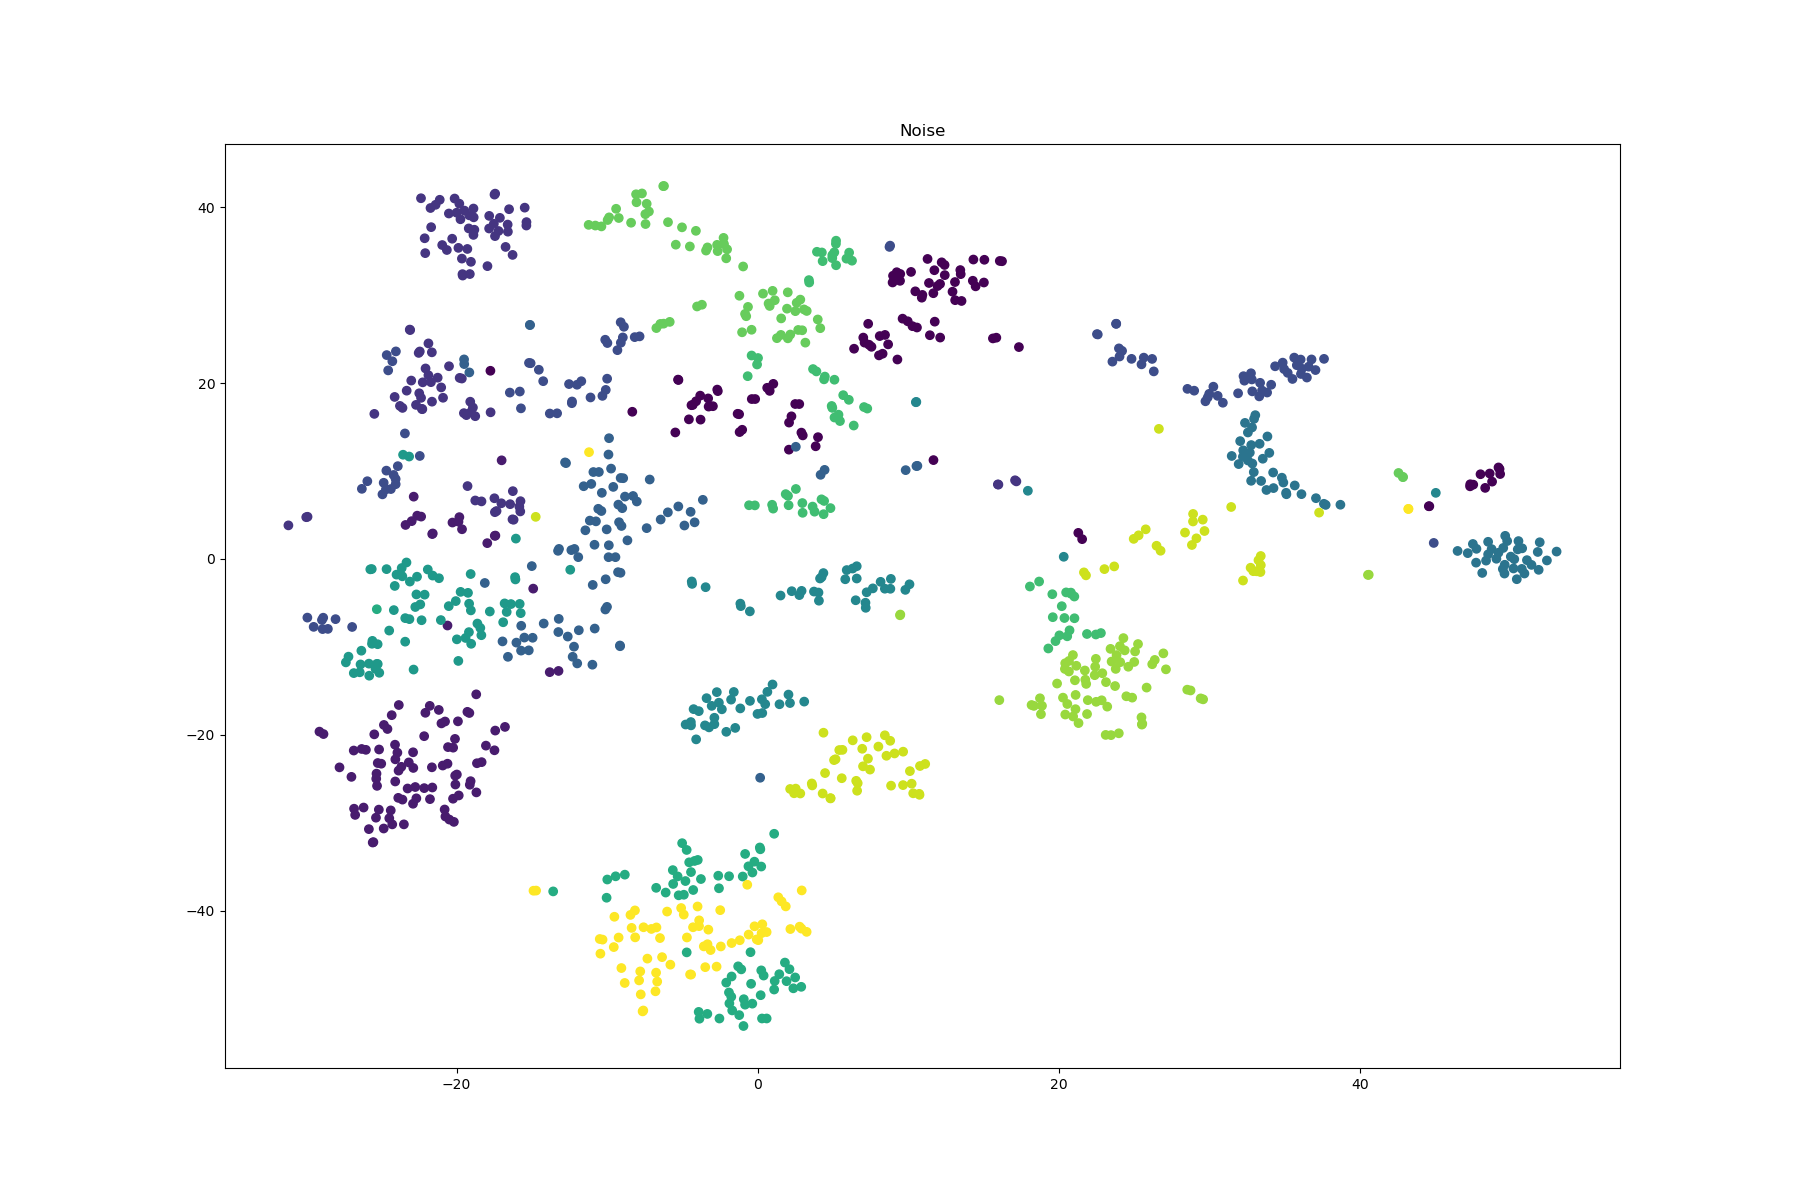
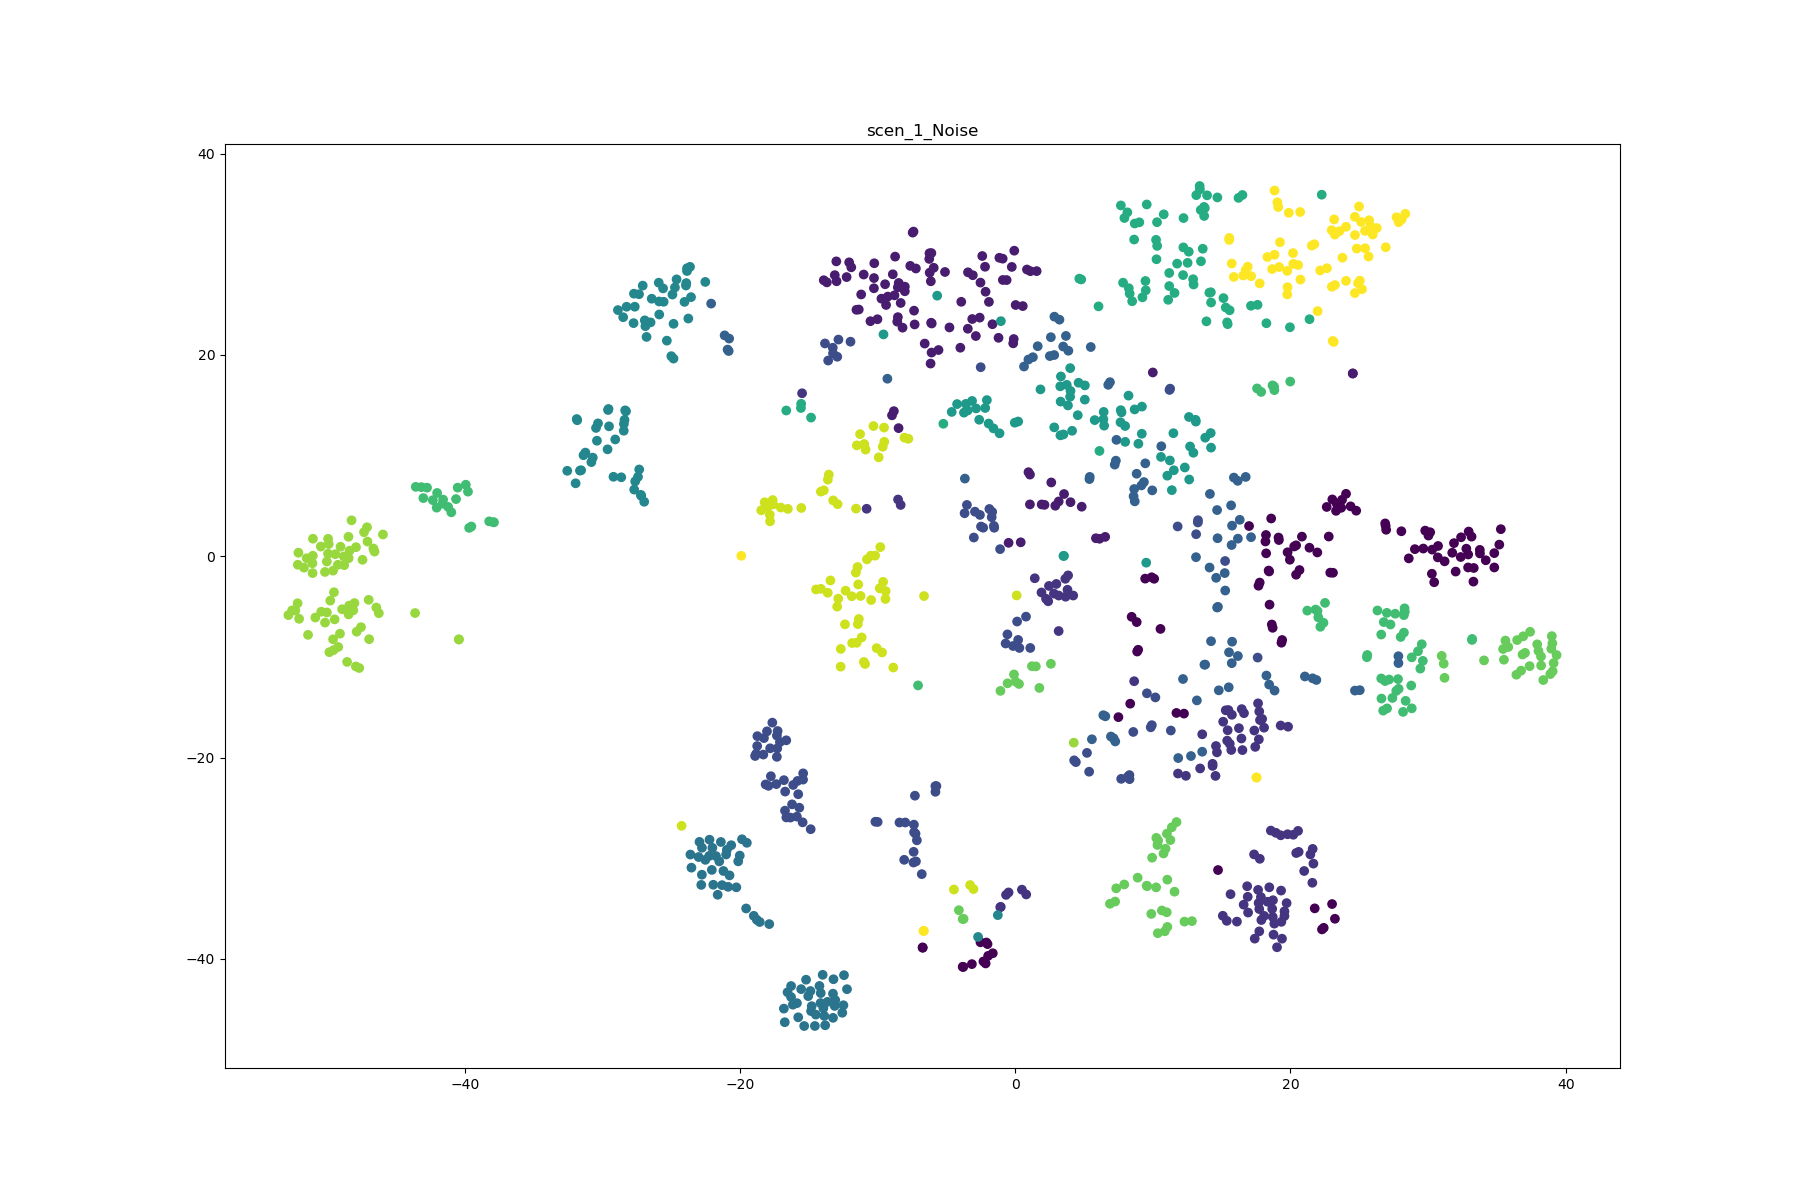
aug comp two scenarios added

diff --git a/experiments/MusicID/aug_comp/multi_task/plot_results.py b/experiments/MusicID/aug_comp/multi_task/plot_results.py
@@ -2,6 +2,9 @@ from trainers import *
 from pre_trainers import *
 import numpy as np
 import matplotlib.pyplot as plt
+import pandas as pd 
+
+iters = 10
 
 transformation_list=[np.array([DA_Jitter]),
                     np.array([DA_Scaling]),
@@ -10,6 +13,8 @@ transformation_list=[np.array([DA_Jitter]),
                     np.array([DA_Flip]),
                     np.array([DA_Drop]),
                     np.array([DA_Jitter, DA_Scaling, DA_MagWarp, DA_RandSampling, DA_Flip, DA_Drop])]
+                    
+#transformation_list=[np.array([DA_Jitter])]
 
 sigma_lst=[np.array([0.1]),
           np.array([0.2]),
@@ -18,28 +23,62 @@ sigma_lst=[np.array([0.1]),
           np.array([None]),
           np.array([3]),
           np.array([0.1, 0.2, 0.2, None, None, 3])]
+          
+#sigma_lst=[np.array([0.1])]
+
 name_list=["Noise", "Scaling", "Magnitude Warp", "Random Sampling", "Flip", "Drop", "all"]
+#name_list=["Noise"]
 
 model_name="musicid_aug_comp_multi task"
 
 variable_name="transformations"
 
-acc=[]
-kappa=[]
+acc_1=[]
+acc_3=[]
+kappa_1=[]
+kappa_3=[]
 for transformations, sigma_l, name in zip(transformation_list, sigma_lst, name_list):
-  acc_temp=[]
-  kappa_temp=[]
-  for itr in range(10):
-    fet_extrct = pre_trainer(transformations, sigma_l, name)
-    test_acc, kappa_score = trainer(60, fet_extrct, ft=0)
-    acc_temp.append(test_acc)
-    kappa_temp.append(kappa_score)
-  acc.append(acc_temp)
-  kappa.append(kappa_temp)
-acc = np.array(acc)
-kappa = np.array(kappa)
+  acc_temp_1=[]
+  kappa_temp_1=[]
+  acc_temp_3=[]
+  kappa_temp_3=[]
+  fet_extrct = pre_trainer(transformations, sigma_l, name)
+  for itr in range(iters):
+    test_acc_1, kappa_score_1 = trainer(60, fet_extrct,scen=1, ft=0)
+    test_acc_3, kappa_score_3 = trainer(60, fet_extrct,scen=3, ft=0)
+    acc_temp_1.append(test_acc_1)
+    acc_temp_3.append(test_acc_3)
+    kappa_temp_1.append(kappa_score_1)
+    kappa_temp_3.append(kappa_score_3)
+  acc_1.append(acc_temp_1)
+  acc_3.append(acc_temp_3)
+  kappa_1.append(kappa_temp_1)
+  kappa_3.append(kappa_temp_3)
+  
+acc = np.array(acc_1)
+kappa = np.array(kappa_1)
 names = np.array(name_list, dtype=object)
+kappa_mean = np.mean(kappa, axis=0)
+kappa_csv = np.concatenate(([names], kappa, [kappa_mean]), axis=1)
 
-np.savez("graph_data/"+model_name+".npz",names=names, test_acc=acc, kappa_score=kappa)
-print(acc.shape)
-print(kappa.shape)
+headers=["augmentation"]
+for itr in range(iters):
+  headers.append("iter_"+str(itr))
+headers.append("average")
+pd.DataFrame(kappa_csv).to_csv("graph_data/"+model_name+"_scen_1_kappa.csv", index=False, header=headers)
+
+np.savez("graph_data/"+model_name+"_scen_1.npz",names=names, test_acc=acc, kappa_score=kappa)
+
+acc = np.array(acc_3)
+kappa = np.array(kappa_3)
+names = np.array(name_list, dtype=object)
+kappa_mean = np.mean(kappa, axis=0)
+kappa_csv = np.concatenate(([names], kappa, [kappa_mean]), axis=1)
+
+headers=["augmentation"]
+for itr in range(iters):
+  headers.append("iter_"+str(itr))
+headers.append("average")
+pd.DataFrame(kappa_csv).to_csv("graph_data/"+model_name+"_scen_3_kappa.csv", index=False, header=headers)
+
+np.savez("graph_data/"+model_name+"_scen_3.npz",names=names, test_acc=acc, kappa_score=kappa)

diff --git a/experiments/MusicID/aug_comp/multi_task/trainers.py b/experiments/MusicID/aug_comp/multi_task/trainers.py
@@ -7,7 +7,7 @@ from tensorflow.keras.layers import Dense
 from backbones import *
 from data_loader import *
 
-def trainer(samples_per_user, fet_extrct, ft):
+def trainer(samples_per_user, fet_extrct, scen, ft):
   
   ft_dict = {0:17, 1:12, 2:11, 3:8, 4:5, 5:0}
   ft = ft_dict[ft]
@@ -19,8 +19,13 @@ def trainer(samples_per_user, fet_extrct, ft):
   frame_size   = 30
   path = "/home/oshanjayawardanav100/biometrics-self-supervised/musicid_dataset/"
   
-  users_2 = list(range(7,21)) #Users for dataset 1
-  users_1 = list(range(1,7)) #Users for dataset 2
+  users_2 = list(range(7,21)) #Users for dataset 2
+  users_1 = list(range(1,7)) #Users for dataset 1
+  
+  if scen==1:
+    users = users_1
+  elif scen==3:
+    users = users_2
   
   ######################################################Transfering##########################################################################################
   
@@ -28,13 +33,13 @@ def trainer(samples_per_user, fet_extrct, ft):
   folder_val = ["TestingSet"]
   folder_test = ["TestingSet_secret"]
   
-  x_train, y_train, sessions_train = data_load_origin(path, users=users_2, folders=folder_train, frame_size=30)
+  x_train, y_train, sessions_train = data_load_origin(path, users=users, folders=folder_train, frame_size=30)
   print("training samples : ", x_train.shape[0])
   
-  x_val, y_val, sessions_val = data_load_origin(path, users=users_2, folders=folder_val, frame_size=30)
+  x_val, y_val, sessions_val = data_load_origin(path, users=users, folders=folder_val, frame_size=30)
   print("validation samples : ", x_val.shape[0])
   
-  x_test, y_test, sessions_test = data_load_origin(path, users=users_2, folders=folder_test, frame_size=30)
+  x_test, y_test, sessions_test = data_load_origin(path, users=users, folders=folder_test, frame_size=30)
   print("testing samples : ", x_test.shape[0])
   
   classes, counts  = np.unique(y_train, return_counts=True)

diff --git a/experiments/MusicID/aug_comp/multi_task/pre_trainers.py b/experiments/MusicID/aug_comp/multi_task/pre_trainers.py
@@ -106,6 +106,17 @@ def pre_trainer(transformations, sigma_l, name_aug):
   
   fet_extrct=model.layers[len(transformations)]
   
+  x_train, y_train, sessions_train = data_load_origin(path, users=users_1, folders=folder_train, frame_size=30)
+  x_train = norma_pre(x_train)
+  enc_results = fet_extrct(x_train)
+  enc_results = np.array(enc_results)
+  X_embedded = TSNE(n_components=2).fit_transform(enc_results)
+  fig4 = plt.figure(figsize=(18,12))
+  plt.scatter(X_embedded[:,0], X_embedded[:,1], c=y_train)
+  plt.title('scen_1_'+name_aug)
+  plt.savefig('graphs/latentspace_scen_1_'+name_aug+'.png')
+  plt.close(fig4)
+  
   x_train, y_train, sessions_train = data_load_origin(path, users=users_2, folders=folder_train, frame_size=30)
   x_train = norma_pre(x_train)
   enc_results = fet_extrct(x_train)
@@ -113,7 +124,7 @@ def pre_trainer(transformations, sigma_l, name_aug):
   X_embedded = TSNE(n_components=2).fit_transform(enc_results)
   fig4 = plt.figure(figsize=(18,12))
   plt.scatter(X_embedded[:,0], X_embedded[:,1], c=y_train)
-  plt.title(name_aug)
+  plt.title('scen_1_'+name_aug)
   plt.savefig('graphs/latentspace_scen_3_'+name_aug+'.png')
   plt.close(fig4)
   
